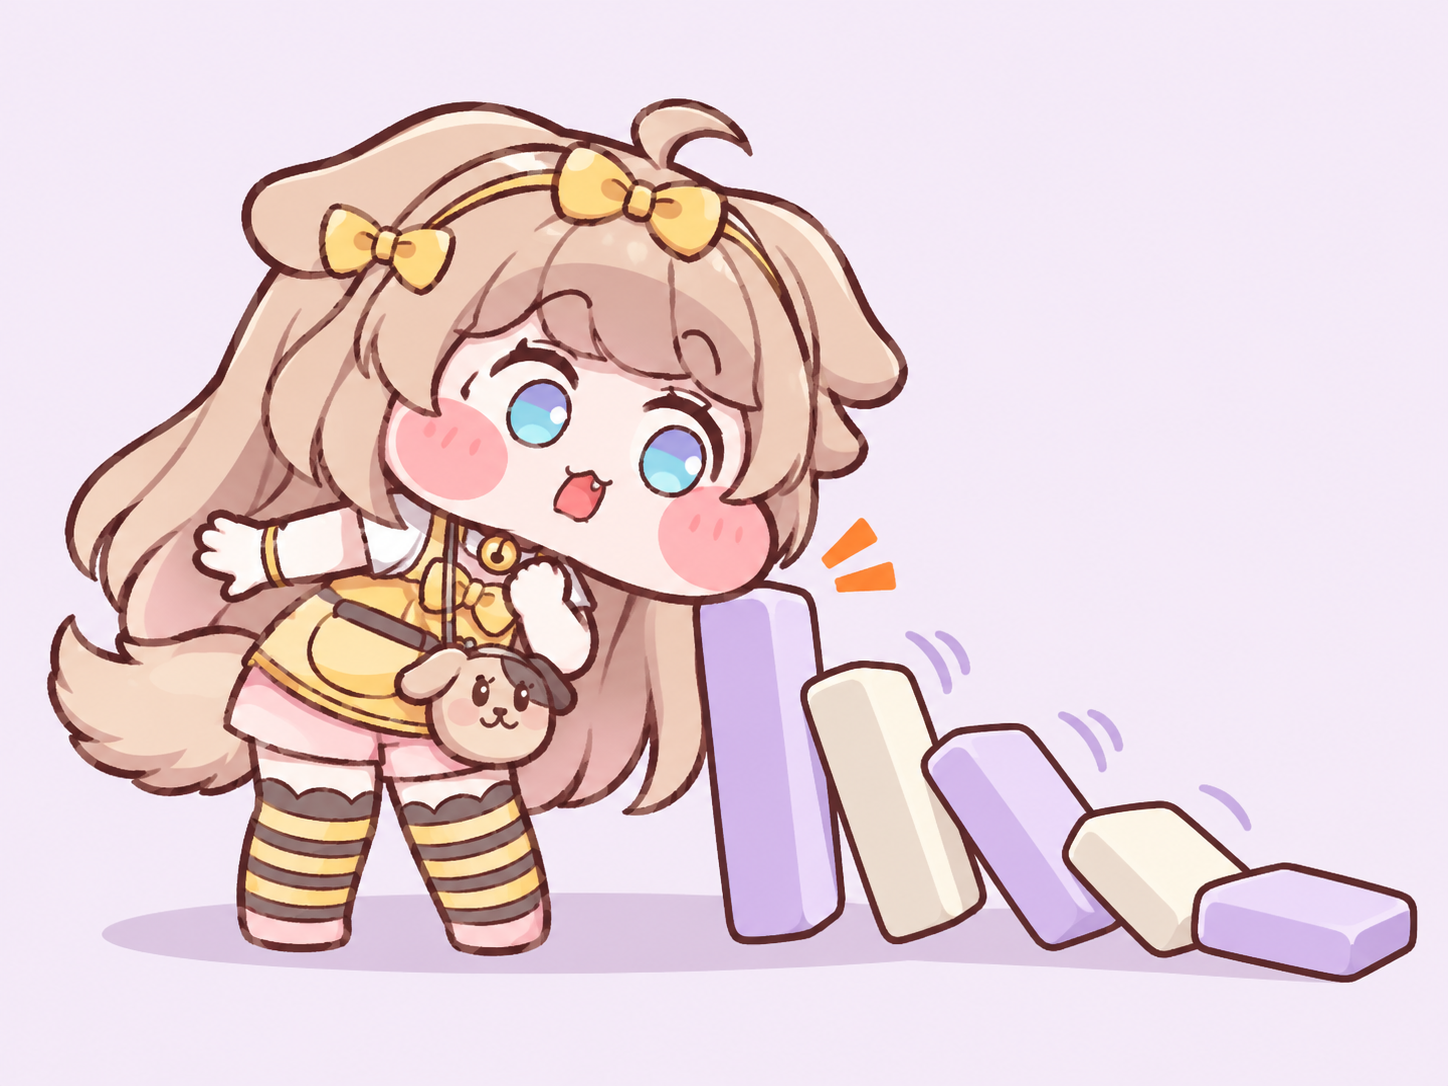
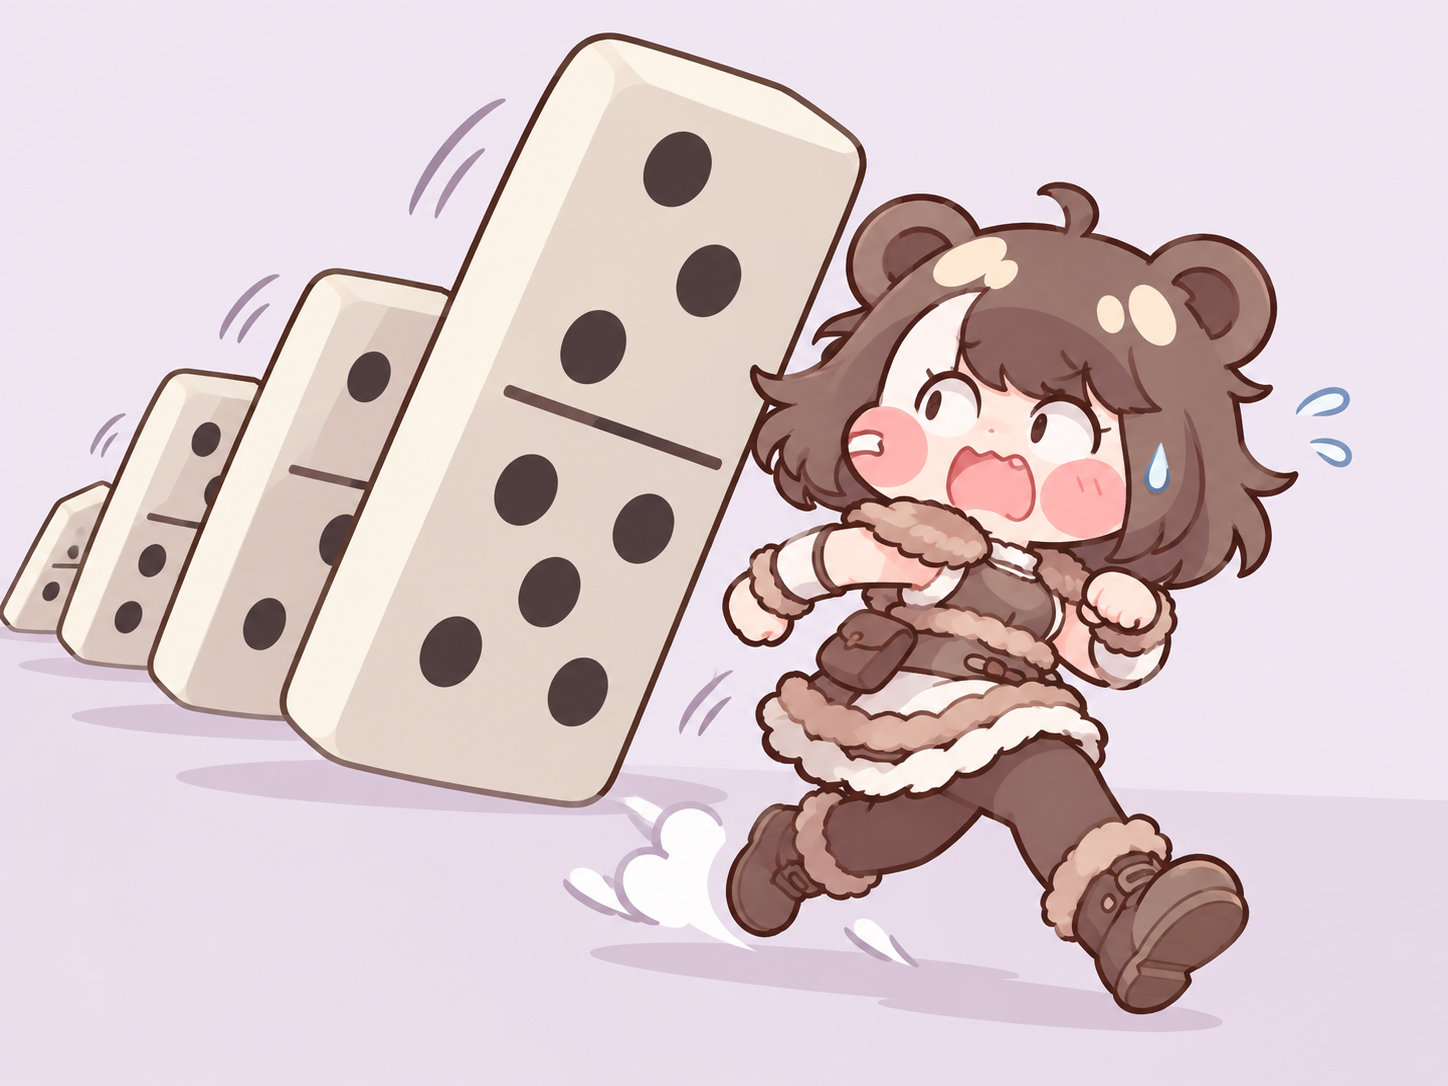
Replace Domino Chain illustration with fleeing Beni [check:rulebook-art]

diff --git a/docs/ui-trial/card-domino-beni-v01.md b/docs/ui-trial/card-domino-beni-v01.md
@@ -1,0 +1,12 @@
+# 도미노 연쇄 — 베니
+
+TRP_05 카드 그림을 베니가 거대한 도미노에 깔리기 직전 뒤를 돌아보며 오른쪽으로 달아나는 장면으로 교체했다. 배경은 단순한 연보라색이며, 베니의 얼굴·달리는 자세와 도미노의 연쇄 방향을 먼저 읽을 수 있게 했다. 곰 귀, 갈색 단발과 밝은 앞머리 무늬, 털 장식 의상을 참조했다.
+
+- 표시 파일: `assets/cards/TRP_05.png`.
+- 원본: 1448 × 1086 PNG, native `image_gen.imagegen`으로 생성.
[1 lines of base64/hex data omitted]
+- 기존 임포트 설정과 UID 유지: 최대 640px, WebP 0.85, 밉맵 사용.
+- 베니 외형 참조: [GameWith 캐릭터 페이지](https://gamewith.jp/trickcal/517602). 외형 자료는 작업 폴더에만 두고 게임에 배포하지 않는다.
+- 스타일 참조: 기존 바나나 껍질 카드 `TRP_06.png` 및 `card-art-direction.md`의 3등신·큰 볼·단순한 배경 원칙.
+
+카드 ID·효과·이름·설치 아이콘은 변경하지 않는다. 원본, 교체 전 백업, 프롬프트와 카드 크기 미리보기는 작업 폴더 `outputs/domino-beni-20261026/`에 저장한다. 이 변경의 검수 범위는 도미노 연쇄 카드 그림이다.
